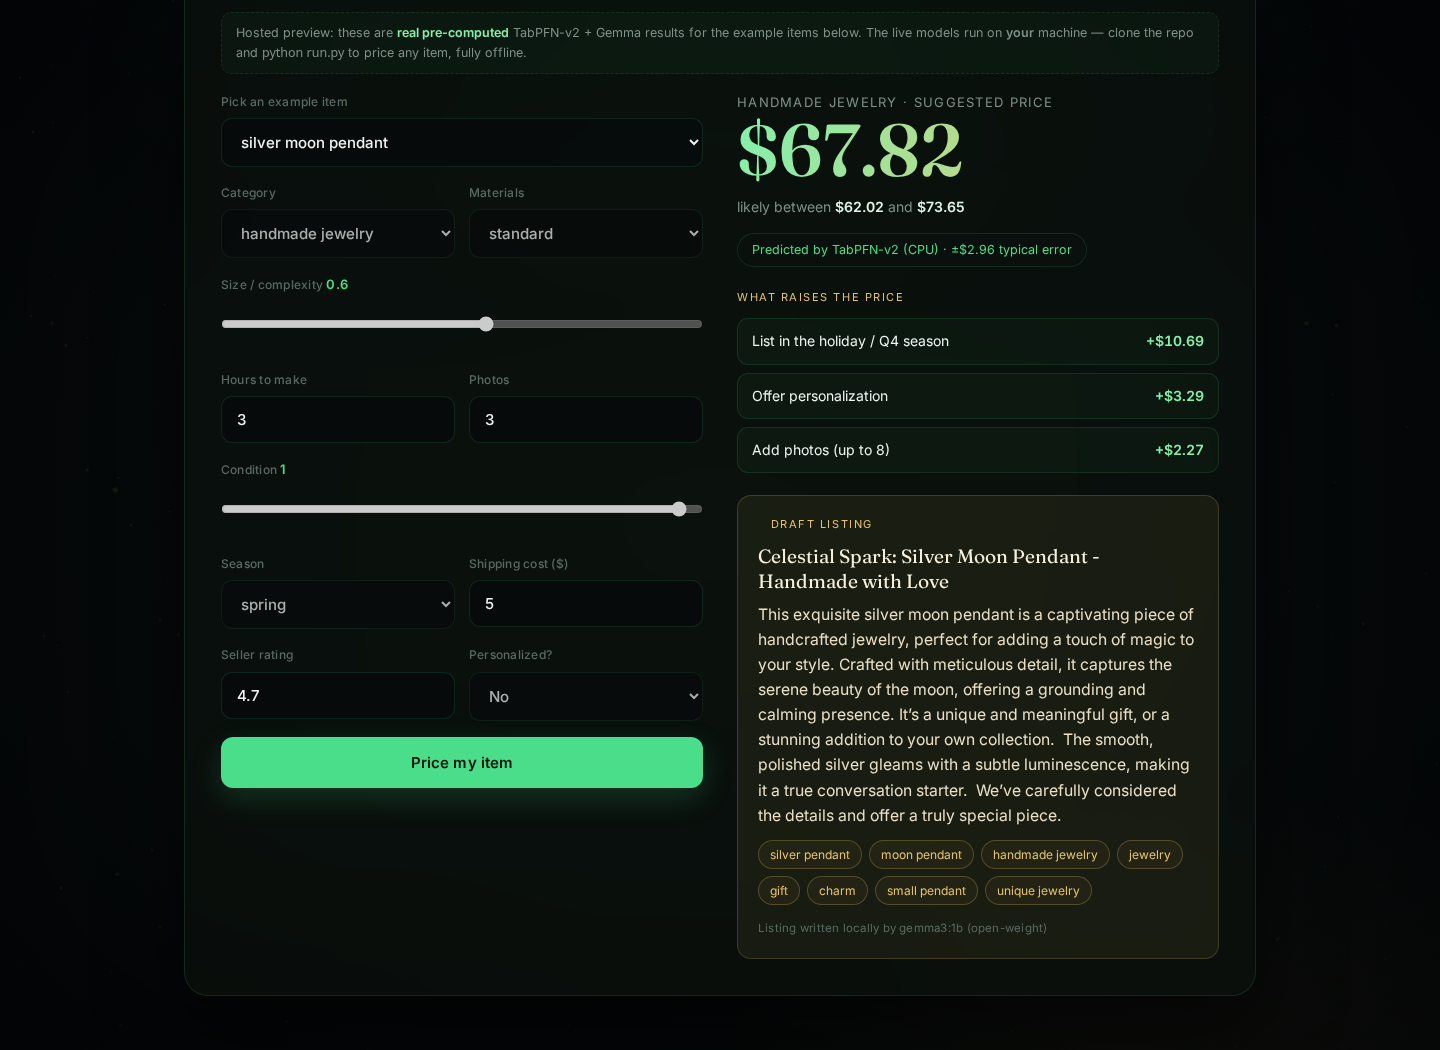
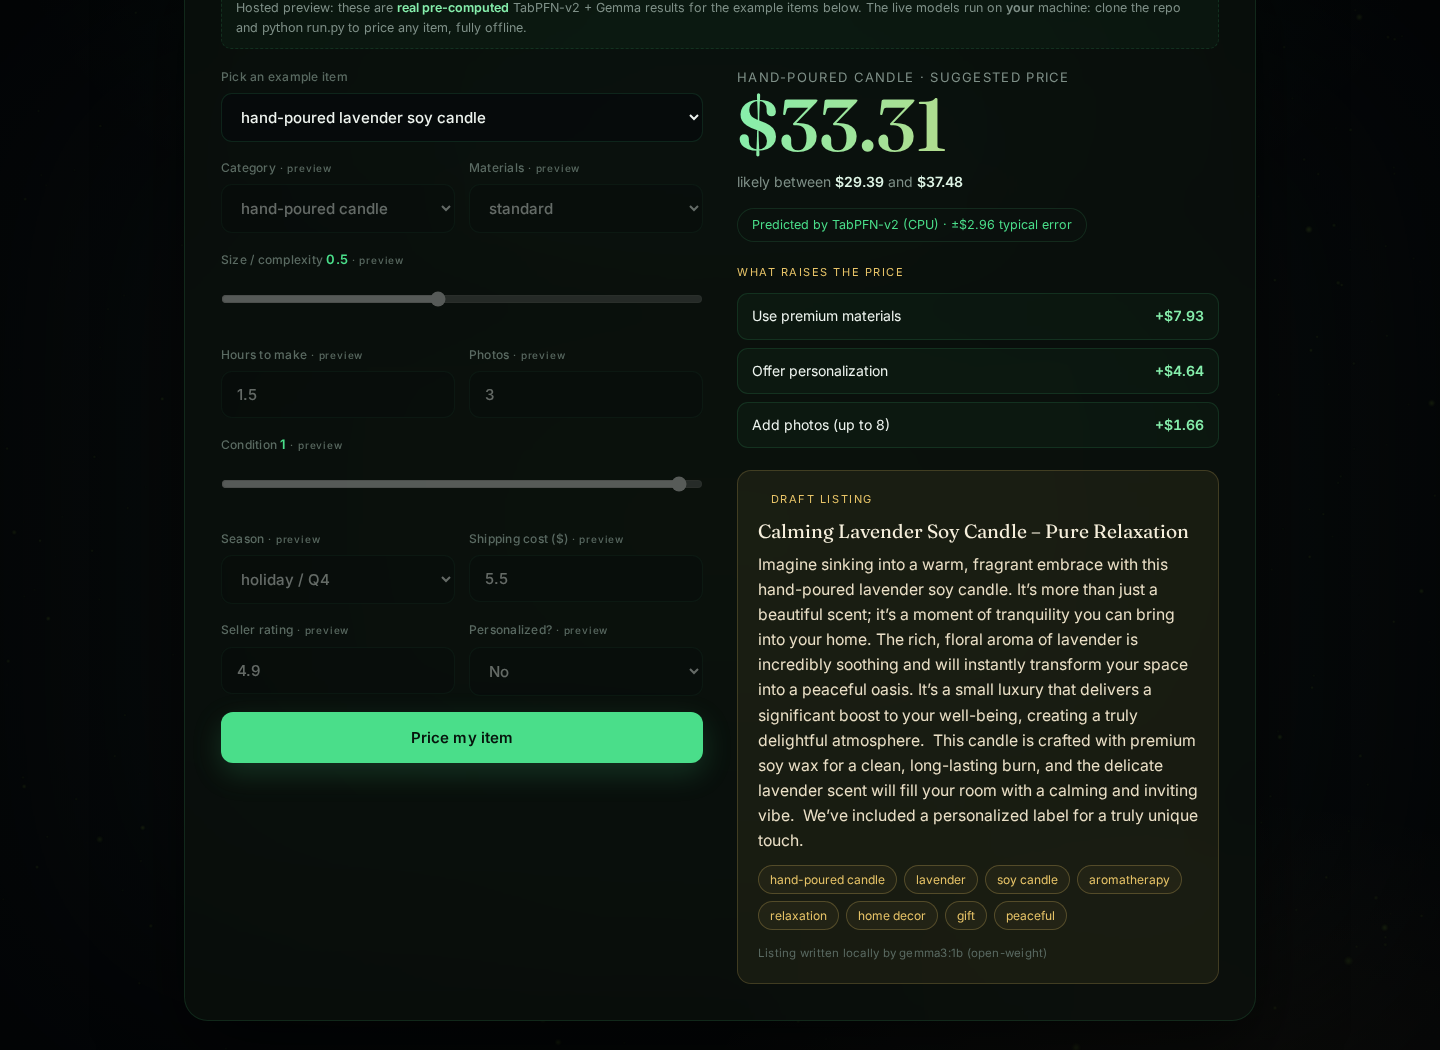
ui: preset dropdown now fills the preview fields with each example's real inputs

diff --git a/web/assets/app.js b/web/assets/app.js
@@ -104,9 +104,28 @@ function buildPresetPicker() {
     const el = document.getElementById(id);
     if (!el) return;
     el.disabled = true;
-    el.title = 'Preview only — run PricePilot locally (python run.py) to price any item';
+    el.title = 'Preview only. Run PricePilot locally (python run.py) to price any item.';
     el.closest('.field')?.classList.add('locked');
   });
+
+  // Reflect the chosen example's REAL inputs into the (locked) fields so the preview
+  // shows the actual item behind each baked result, not a static default.
+  const applyPreset = (key) => {
+    const d = STATIC.results[key];
+    if (!d || !d.inputs) return;
+    const inp = d.inputs;
+    ['category_id', 'material_id', 'size_score', 'make_hours', 'condition_score',
+     'seller_rating', 'photo_count', 'season_id', 'is_personalized', 'shipping_cost'].forEach((id) => {
+      const el = document.getElementById(id);
+      if (el && inp[id] !== undefined) el.value = inp[id];
+    });
+    ['size_score', 'condition_score'].forEach((id) => {
+      const out = document.getElementById(id + '_v');
+      if (out) out.textContent = document.getElementById(id).value;
+    });
+  };
+  sel.addEventListener('change', (e) => applyPreset(e.target.value));
+  applyPreset(sel.value); // fill for the first example on load
 }
 function fill(id, items, def) {
   const sel = document.getElementById(id);
